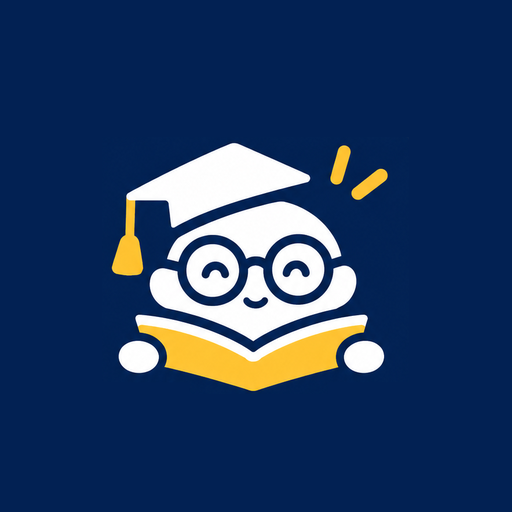
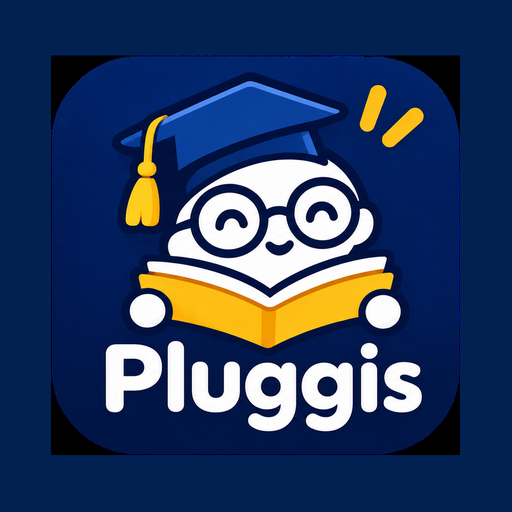
Appikon: hela loggan med texten Pluggis
Ikonen för elevchatten och admin (iPhone, Android, favicon) är nu hela
loggan till vänster i den nya bilden. Figuren i pratbubblan används bara i
chatten. ?v=2 på ikonerna så att webbläsaren hämtar de nya.

Claude-Session: https://claude.ai/code/session_01327xFskV4MasD91b4hvbXD

diff --git a/src/main/resources/static/admin.html b/src/main/resources/static/admin.html
@@ -6,9 +6,9 @@
   <meta name="apple-mobile-web-app-capable" content="yes">
   <meta name="apple-mobile-web-app-title" content="Pluggis admin">
   <meta name="theme-color" content="#022153">
-  <link rel="apple-touch-icon" href="admin-apple-touch-icon.png">
-  <link rel="icon" type="image/png" sizes="32x32" href="favicon-32.png">
-  <link rel="icon" type="image/png" sizes="64x64" href="favicon-64.png">
+  <link rel="apple-touch-icon" href="admin-apple-touch-icon.png?v=2">
+  <link rel="icon" type="image/png" sizes="32x32" href="favicon-32.png?v=2">
+  <link rel="icon" type="image/png" sizes="64x64" href="favicon-64.png?v=2">
   <link rel="manifest" href="admin.webmanifest">
   <title>Pluggis</title>
   <link rel="stylesheet" href="app.css">

diff --git a/src/main/resources/static/chat.html b/src/main/resources/static/chat.html
@@ -8,9 +8,9 @@
   <meta name="apple-mobile-web-app-status-bar-style" content="default">
   <meta name="apple-mobile-web-app-title" content="Pluggis">
   <meta name="theme-color" content="#022153">
-  <link rel="apple-touch-icon" href="apple-touch-icon.png">
-  <link rel="icon" type="image/png" sizes="32x32" href="favicon-32.png">
-  <link rel="icon" type="image/png" sizes="64x64" href="favicon-64.png">
+  <link rel="apple-touch-icon" href="apple-touch-icon.png?v=2">
+  <link rel="icon" type="image/png" sizes="32x32" href="favicon-32.png?v=2">
+  <link rel="icon" type="image/png" sizes="64x64" href="favicon-64.png?v=2">
   <link rel="manifest" href="manifest.webmanifest">
   <title>Pluggis</title>
   <link rel="stylesheet" href="chat.css">

diff --git a/README.md b/README.md
@@ -100,8 +100,8 @@ Nya versioner hämtas automatiskt när appen öppnas.
 
 ### Ikon och färger
 
-Loggan och figuren (original och utskurna versioner i [`docs/brand/`](docs/brand/)) används som appikon,
-favicon, figur bredvid Pluggis svar i chatten, startskärm och Chat-flik på Tab5. Admin-ikonen har en gul ring
+Loggan med texten *Pluggis* är appikon och favicon, och syns på inloggningen och Tab5:s startskärm. Figuren i
+pratbubblan står bredvid Pluggis svar i chatten och på Chat-fliken på Tab5. Original i [`docs/brand/`](docs/brand/). Admin-ikonen har en gul ring
 så att den skiljs från elevens. Färgerna är mörkblått `#022153` och gult `#FEC434`.
 Har du redan lagt till appen på hemskärmen: ta bort den och lägg till igen för att få den nya ikonen.
 
